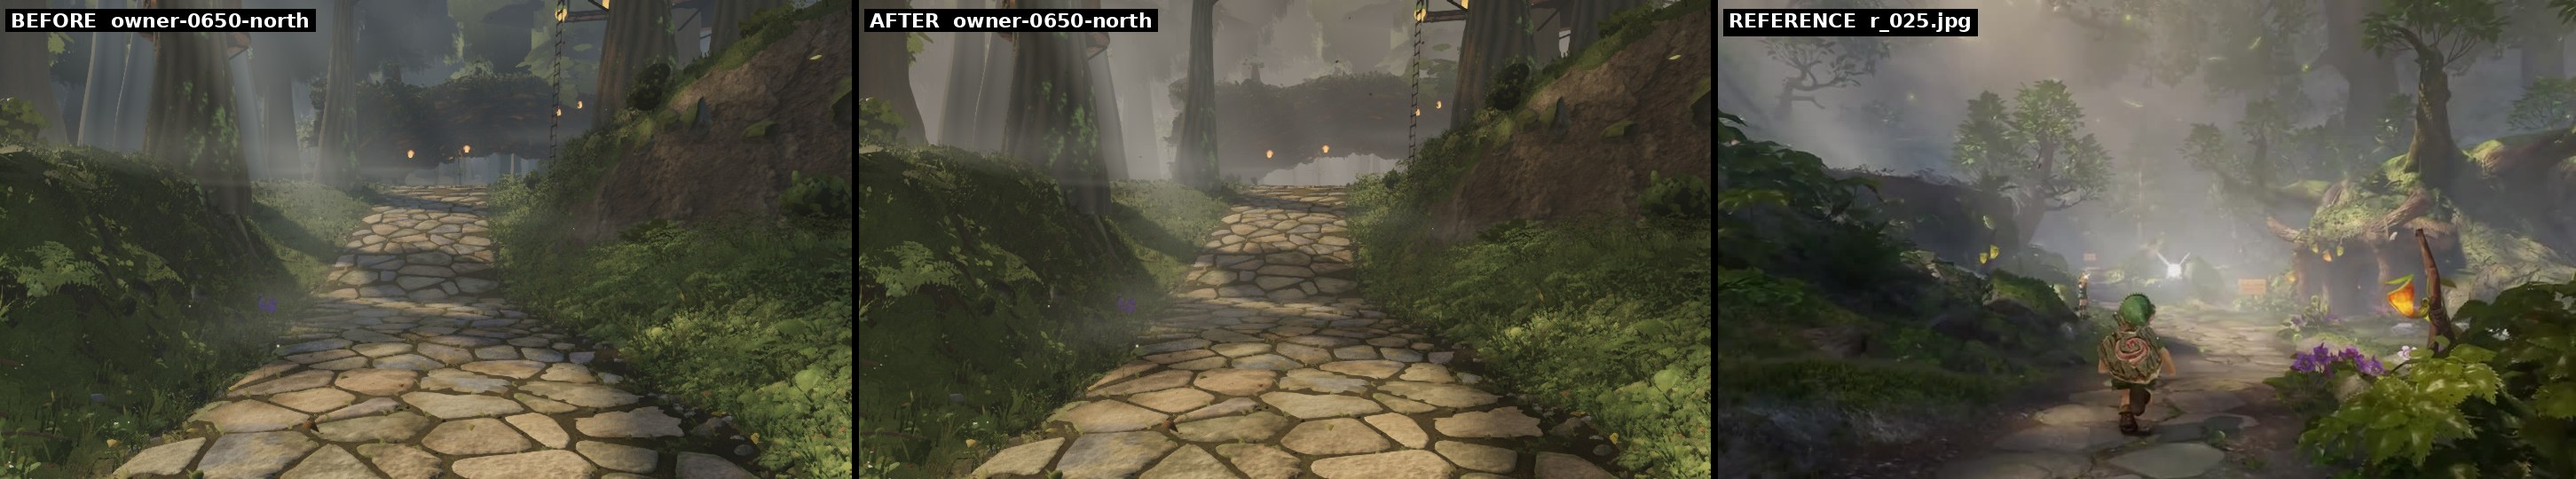
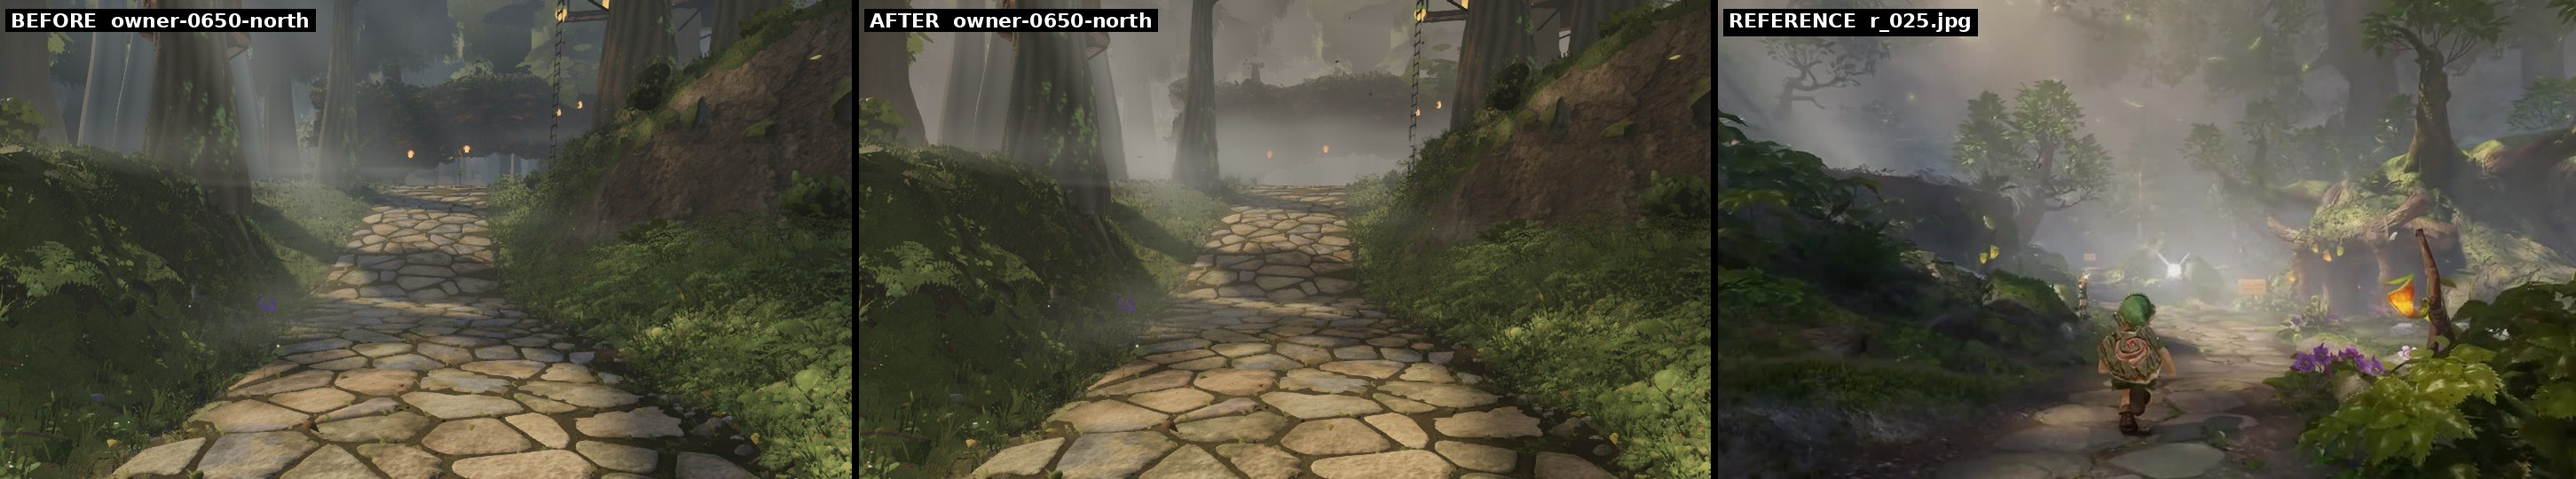
mist: a third tier of tall, thin mid-distance curtains (owner: mist soft and layered like review46)
The pools are ankle-to-waist (mistHeight 2.2 m) and live in the north hollow; in r_022/r_025/r_028
the mist between the trunks at 15-45 m is a tall, very thin luminous layer the crowns and boles
cross - what separates one depth from the next. 28 curtains (3-7.5 m tall, 14-26 m wide) up the
north path, into the west stand and across the plaza's south margin, fading in past 13 m and out
by 92 m; placed after the existing pools so their deterministic positions are unchanged.

The per-mesh near/far fade, vertical fade and noise gate are new uniforms: at the pools' gate
(0.36/0.86, which cuts the fbm's 0.44 mean to 0.06) the whole tier moved the owner's north pose by
1 level. With a wide low gate and a vertical fade that thins toward the top the band reads:
+1.2 levels mean, 8 % of the frame over 2 levels, 55 at the band, 0.01 looking up.

Changed region(s): [[0.465, 0.237, 0.558, 0.4148]]

diff --git a/src/world/atmosphere/mist.ts b/src/world/atmosphere/mist.ts
@@ -36,6 +36,8 @@ export interface MistVolume {
   scene: Scene;
   billboards: number;
   sheets: number;
+  /** tall, very thin mid-distance layers (see the curtain placements below) */
+  curtains: number;
   /** `viewportSize` is the pixel size of the target the mist is rendered into */
   update(t: number, camera: PerspectiveCamera, depth: Texture | null, viewportSize: Vector2): void;
   dispose(): void;
@@ -90,6 +92,13 @@ uniform vec2 uBackScatter;
 uniform vec3 uBackTint;
 uniform float uUpright;
 uniform float uDensity;
+// distances (m) over which a layer fades in near the camera and out in the far field
+uniform vec2 uNearFade;
+uniform vec2 uFarFade;
+// smoothstep edges on the quad's height fraction where it thins toward its top
+uniform vec2 uVertFade;
+// smoothstep edges on the fbm that cut the layer into wisps; a wide, low gate is a broad soft band
+uniform vec2 uNoiseGate;
 varying vec2 vUv;
 varying float vSeed;
 varying float vViewZ;
@@ -126,12 +135,12 @@ void main() {
   vec2 p = vUv - 0.5;
   // soft elliptical falloff; upright quads also fade toward their top
   float edge = 1.0 - smoothstep( 0.25, 0.5, length( p * vec2( 1.0, 1.15 ) ) );
-  float vert = uUpright > 0.5 ? ( 1.0 - smoothstep( 0.15, 1.0, vHeightFrac ) ) : 1.0;
+  float vert = uUpright > 0.5 ? ( 1.0 - smoothstep( uVertFade.x, uVertFade.y, vHeightFrac ) ) : 1.0;
   vec2 drift = uWind * uTime * 0.035 + vSeed * 7.31;
   vec2 nuv = vWorld.xz * 0.11 + drift;
   if ( uUpright > 0.5 ) nuv = vec2( vUv.x * 2.2 + vSeed * 3.0 + uTime * 0.02, vUv.y * 1.1 + uTime * 0.012 ) + uWind * uTime * 0.02;
   float n = fbm( nuv );
-  n = smoothstep( 0.36, 0.86, n + 0.06 * sin( uTime * 0.11 + vSeed * 6.0 ) );
+  n = smoothstep( uNoiseGate.x, uNoiseGate.y, n + 0.06 * sin( uTime * 0.11 + vSeed * 6.0 ) );
   float alpha = edge * vert * n * uDensity;
 
   // soft depth intersection against the scene
@@ -141,11 +150,12 @@ void main() {
     float behind = sceneZ - vViewZ; // negative when the scene surface is behind this fragment
     alpha *= clamp( -behind / 2.5, 0.0, 1.0 );
   }
-  // fade in from the camera so quads never pop through the lens
+  // fade in from the camera so quads never pop through the lens (the tall curtains start much
+  // further out — they are the mid-distance layers, never the air the walker stands in)
   float dist = -vViewZ;
-  alpha *= smoothstep( 1.5, 7.0, dist );
+  alpha *= smoothstep( uNearFade.x, uNearFade.y, dist );
   // thin out with distance so far mist stays airy
-  alpha *= 1.0 - smoothstep( 40.0, 95.0, dist );
+  alpha *= 1.0 - smoothstep( uFarFade.x, uFarFade.y, dist );
 
   vec3 rayDir = normalize( vWorld - cameraPosition );
   float mu = dot( rayDir, uSunDir );
@@ -204,6 +214,33 @@ export function createMistVolume(ctx: WorldContext, sunDir: Vector3): MistVolume
     placeSheet(x, z, rng.range(12, 20), rng.range(9, 15), rng.range(0.25, 0.9));
   }
 
+  // Mid-distance curtains (2026-09-23, lane 1 — "mist soft and layered like review46"). The pools
+  // above are ankle-to-waist (mistHeight 2.2 m); in the owner's recording the mist between the
+  // trunks at 15–45 m is a tall, very thin luminous layer that the crowns and boles cross — it is
+  // what separates one depth from the next and lets the trees read as layers instead of one mass.
+  // A third of the pools' density, fading in only past 13 m so the air the walker stands in is
+  // untouched, and carried out to 80 m. Placed on the headings the walk uses: up the north path,
+  // into the west stand and across the plaza's south margin (the fork pose looks along it).
+  // Appended after the pools so their deterministic placements are unchanged.
+  const curtains: Placement[] = [];
+  const placeCurtain = (x: number, z: number, w: number, h: number) => {
+    curtains.push({ center: new Vector3(x, T.height(x, z) - 0.4, z), w, h, seed: rng(), tint: rng() });
+  };
+  for (let i = 0; i < 14; i++) {
+    const u = i / 13;
+    const z = -16 - u * 40 + rng.range(-4, 4);
+    placeCurtain(1 + (u - 0.2) * 6 + rng.range(-10 - u * 8, 10 + u * 8), z, rng.range(16, 26), rng.range(3.5, 7.5));
+  }
+  for (let i = 0; i < 8; i++) {
+    const u = i / 7;
+    const x = -10 - u * 24 + rng.range(-4, 4);
+    placeCurtain(x, -6 - u * 14 + rng.range(-8, 8), rng.range(14, 24), rng.range(3.0, 6.5));
+  }
+  for (let i = 0; i < 6; i++) {
+    const u = i / 5;
+    placeCurtain(-16 + u * 34 + rng.range(-5, 5), 10 + u * 6 + rng.range(-4, 10), rng.range(14, 22), rng.range(3.0, 6.0));
+  }
+
   const scene = new Scene();
   scene.name = 'mist-volume';
   const viewportSize = new Vector2(1, 1);
@@ -222,7 +259,16 @@ export function createMistVolume(ctx: WorldContext, sunDir: Vector3): MistVolume
     uBackTint: { value: new Color(...HEIGHT_FOG_DEFAULTS.backScatterTint) },
   };
 
-  const build = (items: Placement[], upright: boolean, density: number) => {
+  const build = (
+    items: Placement[],
+    upright: boolean,
+    density: number,
+    nearFade: [number, number] = [1.5, 7],
+    farFade: [number, number] = [40, 95],
+    vertFade: [number, number] = [0.15, 1.0],
+    noiseGate: [number, number] = [0.36, 0.86],
+    name?: string,
+  ) => {
     const base = new PlaneGeometry(1, 1, 1, 1);
     const geo = new InstancedBufferGeometry();
     geo.index = base.index;
@@ -241,9 +287,18 @@ export function createMistVolume(ctx: WorldContext, sunDir: Vector3): MistVolume
     geo.setAttribute('aParams', new InstancedBufferAttribute(params, 3));
     geo.setAttribute('aTint', new InstancedBufferAttribute(tints, 1));
     geo.instanceCount = n;
+    const label = name ?? (upright ? 'mist-billboards' : 'mist-sheets');
     const mat = new ShaderMaterial({
-      name: upright ? 'mist-billboards' : 'mist-sheets',
-      uniforms: { ...shared, uUpright: { value: upright ? 1 : 0 }, uDensity: { value: density } },
+      name: label,
+      uniforms: {
+        ...shared,
+        uUpright: { value: upright ? 1 : 0 },
+        uDensity: { value: density },
+        uNearFade: { value: new Vector2(...nearFade) },
+        uFarFade: { value: new Vector2(...farFade) },
+        uVertFade: { value: new Vector2(...vertFade) },
+        uNoiseGate: { value: new Vector2(...noiseGate) },
+      },
       vertexShader: VERT,
       fragmentShader: FRAG,
       transparent: true,
@@ -258,7 +313,7 @@ export function createMistVolume(ctx: WorldContext, sunDir: Vector3): MistVolume
       blendDstAlpha: OneMinusSrcAlphaFactor,
     });
     const mesh = new Mesh(geo, mat);
-    mesh.name = upright ? 'mist-billboards' : 'mist-sheets';
+    mesh.name = label;
     mesh.frustumCulled = false;
     // transparent volume: must never write depth in the capture API's depth-histogram pass. The
     // mist lives in its own overlay scene (not ctx.scene), and the flag makes the intent explicit.
@@ -269,15 +324,23 @@ export function createMistVolume(ctx: WorldContext, sunDir: Vector3): MistVolume
   // low pools, not a grey wall: the reference's log arch stays a dark silhouette through the haze
   const up = build(uprights, true, 0.22);
   const sh = build(sheets, false, 0.3);
-  // sheets first (they lie under the billboards), then billboards
+  // A curtain thins toward its top rather than vanishing above its first fifth (0.5 / 1.35 against
+  // the pools' 0.15 / 1.0), so the layer reads up through the trunks the way his recording's does,
+  // and its noise gate is wide and low (0.28 / 0.78 against 0.36 / 0.86) so it is a broad soft band
+  // instead of the pools' wisps — the 3-octave fbm averages ≈ 0.44, which the pools' gate cuts to
+  // ≈ 0.06 (measured: at the pools' gate the whole tier moved the owner's north pose by 1 level).
+  const cu = build(curtains, true, 0.55, [13, 24], [62, 92], [0.5, 1.35], [0.28, 0.78], 'mist-curtains');
+  // sheets first (they lie under the billboards), then the pools, then the tall layers behind them
   sh.mesh.renderOrder = 0;
   up.mesh.renderOrder = 1;
-  scene.add(sh.mesh, up.mesh);
+  cu.mesh.renderOrder = 2;
+  scene.add(sh.mesh, up.mesh, cu.mesh);
 
   return {
     scene,
     billboards: uprights.length,
     sheets: sheets.length,
+    curtains: curtains.length,
     update(t, camera, depth, size) {
       shared.uTime.value = t;
       shared.tDepth.value = depth;
@@ -292,6 +355,8 @@ export function createMistVolume(ctx: WorldContext, sunDir: Vector3): MistVolume
       up.mat.dispose();
       sh.geo.dispose();
       sh.mat.dispose();
+      cu.geo.dispose();
+      cu.mat.dispose();
     },
   };
 }

diff --git a/src/world/atmosphere/index.ts b/src/world/atmosphere/index.ts
@@ -169,6 +169,7 @@ export function create(ctx: WorldContext): WorldSystem {
     groundMist: true,
     groundMistBillboards: mist.billboards,
     groundMistSheets: mist.sheets,
+    midMistCurtains: mist.curtains,
     godRays: composer !== null,
     fallingLeaves: leaves.count,
     fireflies: motes.count,

diff --git a/art/environment/squad1-2026-09-23/README.md b/art/environment/squad1-2026-09-23/README.md
@@ -91,6 +91,22 @@ This is close to the mirror of pass 3's haze change (A / B / D top thirds −6.2
 the fixed frames' upper bands land near where they were before that pass — but warm instead of
 blue, and with the far surfaces shaded so the arch and the 30–40 m trunks are silhouettes in it.
 
+## Mist soft and layered (`mist.ts`)
+
+The pools were ankle-to-waist only (`mistHeight` 2.2 m) and lived in the north hollow. In
+`r_022`/`r_025`/`r_028` the mist between the trunks at 15–45 m is a tall, very thin luminous layer
+that the crowns and boles cross — it is what separates one depth from the next. A third tier,
+**28 curtains** (3–7.5 m tall, 14–26 m wide) on the headings the walk uses: up the north path, into
+the west stand, across the plaza's south margin. They fade in only past 13 m (the air the walker
+stands in is untouched) and out by 92 m.
+
+Getting them to read took two passes, both measured: at the pools' own noise gate (0.36/0.86, which
+cuts the 3-octave fbm's ≈ 0.44 mean to ≈ 0.06) the whole tier moved the owner's north pose by
+**1 level** — invisible. With a wide low gate (0.28/0.78) and a vertical fade that thins toward the
+top instead of vanishing above the quad's first fifth, they read as bands: **+1.2 levels mean, 8 %
+of the frame over 2 levels, 55 levels at the band itself**, and nothing at all when looking up
+(0.01 levels). `compare/crop-mist-curtains.jpg`.
+
 ## The blue streak (his red circle 2)
 
 Looking up at the same spot, before: the canopy gaps are **hue 184°, B/R 1.13** — the jagged bright
